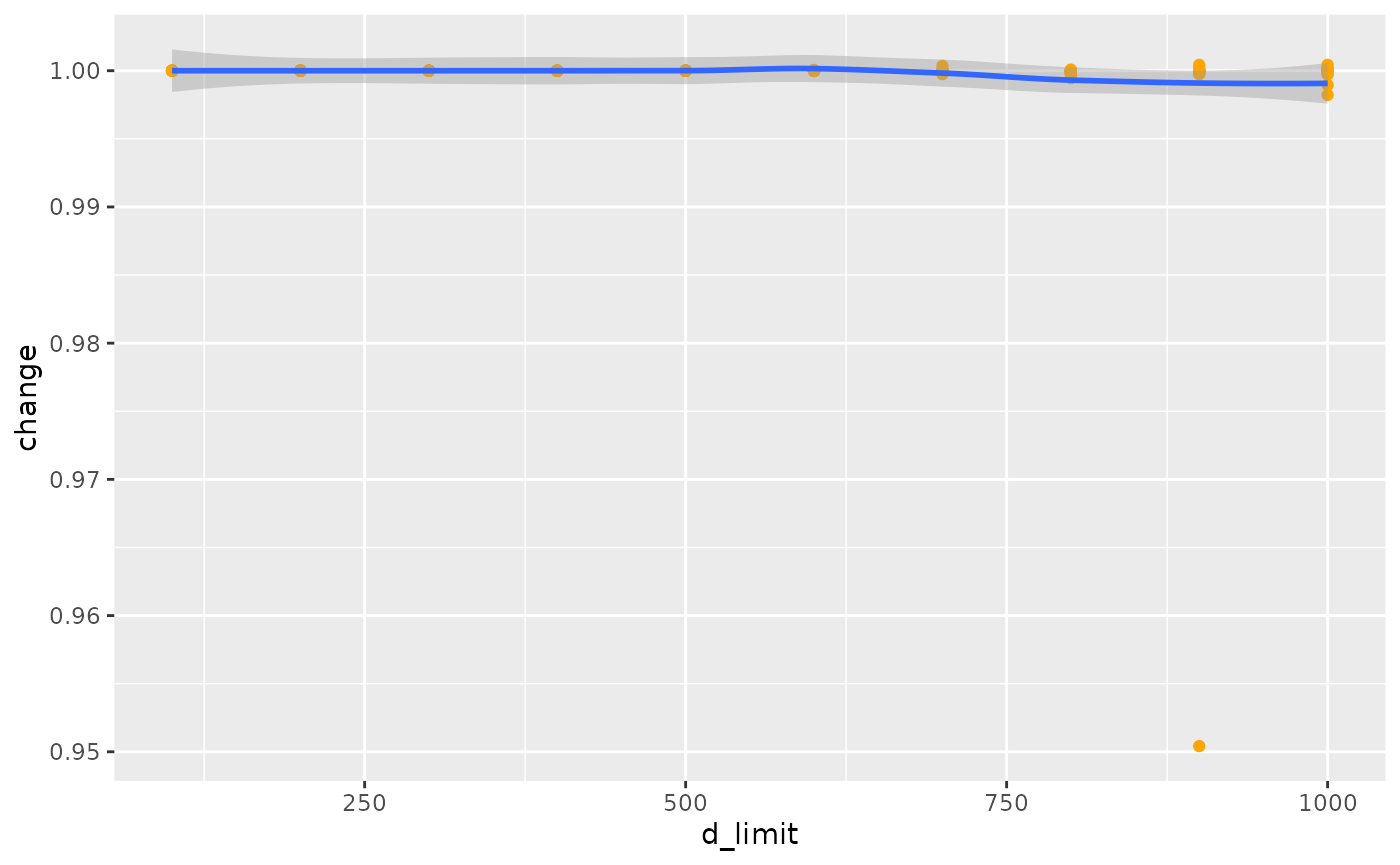
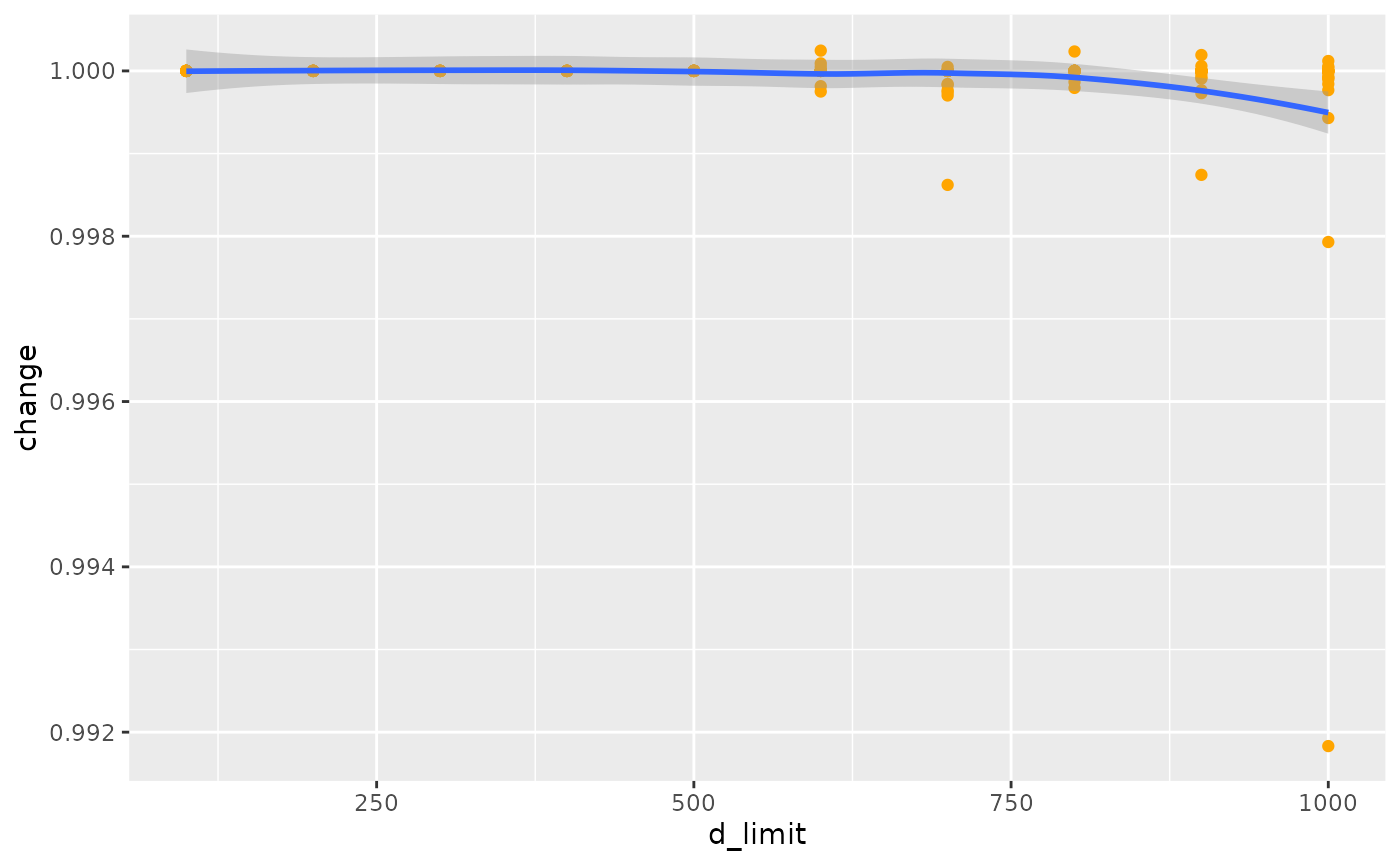
Deploying to gh-pages from @ ATFutures/gtfs-router@f90ab93ab6fbbd9cf7d6a69d2f44bfa3a0624bb7 🚀

diff --git a/docs/articles/gtfsrouter.html b/docs/articles/gtfsrouter.html
@@ -33,7 +33,7 @@
       </button>
       <span class="navbar-brand">
         <a class="navbar-link" href="../index.html">gtfsrouter</a>
-        <span class="version label label-default" data-toggle="tooltip" data-placement="bottom" title="">0.0.5.155</span>
+        <span class="version label label-default" data-toggle="tooltip" data-placement="bottom" title="">0.0.5.156</span>
       </span>
     </div>
 
@@ -126,7 +126,7 @@ to a locally-stored <code>.zip</code> archive in the
 data can be exported and re-imported with:</p>
 <div class="sourceCode" id="cb1"><pre class="downlit sourceCode r">
 <code class="sourceCode R"><span><span class="fu"><a href="../reference/berlin_gtfs_to_zip.html">berlin_gtfs_to_zip</a></span><span class="op">(</span><span class="op">)</span></span></code></pre></div>
-<pre><code><span><span class="co">## [1] "/tmp/RtmphzCcmX/vbb.zip"</span></span></code></pre>
+<pre><code><span><span class="co">## [1] "/tmp/Rtmp9CcPCE/vbb.zip"</span></span></code></pre>
 <div class="sourceCode" id="cb3"><pre class="downlit sourceCode r">
 <code class="sourceCode R"><span><span class="va">f</span> <span class="op">&lt;-</span> <span class="fu"><a href="https://rdrr.io/r/base/file.path.html" class="external-link">file.path</a></span> <span class="op">(</span><span class="fu"><a href="https://rdrr.io/r/base/tempfile.html" class="external-link">tempdir</a></span> <span class="op">(</span><span class="op">)</span>, <span class="st">"vbb.zip"</span><span class="op">)</span></span>
 <span><span class="fu"><a href="https://rdrr.io/r/base/files.html" class="external-link">file.exists</a></span> <span class="op">(</span><span class="va">f</span><span class="op">)</span></span></code></pre></div>
@@ -347,7 +347,7 @@ data:</p>
 <span>                day <span class="op">=</span> <span class="st">"Sunday"</span><span class="op">)</span></span>
 <span>    <span class="op">)</span></span></code></pre></div>
 <pre><code><span><span class="co">##    user  system elapsed </span></span>
-<span><span class="co">##   0.052   0.000   0.053</span></span></code></pre>
+<span><span class="co">##   0.052   0.000   0.052</span></span></code></pre>
 <div class="sourceCode" id="cb14"><pre class="downlit sourceCode r">
 <code class="sourceCode R"><span><span class="fu"><a href="https://rdrr.io/r/base/names.html" class="external-link">names</a></span> <span class="op">(</span><span class="va">gtfs</span><span class="op">)</span></span></code></pre></div>
 <pre><code><span><span class="co">## [1] "calendar"   "routes"     "trips"      "stop_times" "stops"     </span></span>
@@ -365,7 +365,7 @@ data:</p>
 <span>                         to <span class="op">=</span> <span class="va">to</span>,</span>
 <span>                         start_time <span class="op">=</span> <span class="st">"12:00:00"</span><span class="op">)</span><span class="op">)</span></span></code></pre></div>
 <pre><code><span><span class="co">##    user  system elapsed </span></span>
-<span><span class="co">##   0.042   0.000   0.042</span></span></code></pre>
+<span><span class="co">##    0.04    0.00    0.04</span></span></code></pre>
 <p>Note that the <code>day</code> parameter is used to extract the
 timetable, after which it is no longer required in the actual call to
 <code><a href="../reference/gtfs_route.html">gtfs_route()</a></code>.</p>

diff --git a/docs/articles/traveltimes.html b/docs/articles/traveltimes.html
@@ -33,7 +33,7 @@
       </button>
       <span class="navbar-brand">
         <a class="navbar-link" href="../index.html">gtfsrouter</a>
-        <span class="version label label-default" data-toggle="tooltip" data-placement="bottom" title="">0.0.5.155</span>
+        <span class="version label label-default" data-toggle="tooltip" data-placement="bottom" title="">0.0.5.156</span>
       </span>
     </div>
 
@@ -101,7 +101,7 @@ function</a>, is necessary prior to calculating travel times.</p>
 <div class="sourceCode" id="cb1"><pre class="downlit sourceCode r">
 <code class="sourceCode R"><span><span class="kw"><a href="https://rdrr.io/r/base/library.html" class="external-link">library</a></span> <span class="op">(</span><span class="va"><a href="https://github.com/ATFutures/gtfs-router" class="external-link">gtfsrouter</a></span><span class="op">)</span></span>
 <span><span class="fu"><a href="../reference/berlin_gtfs_to_zip.html">berlin_gtfs_to_zip</a></span> <span class="op">(</span><span class="op">)</span></span></code></pre></div>
-<pre><code><span><span class="co">## [1] "/tmp/RtmpeUBqgY/vbb.zip"</span></span></code></pre>
+<pre><code><span><span class="co">## [1] "/tmp/RtmpzJwvJ1/vbb.zip"</span></span></code></pre>
 <div class="sourceCode" id="cb3"><pre class="downlit sourceCode r">
 <code class="sourceCode R"><span><span class="va">f</span> <span class="op">&lt;-</span> <span class="fu"><a href="https://rdrr.io/r/base/file.path.html" class="external-link">file.path</a></span> <span class="op">(</span><span class="fu"><a href="https://rdrr.io/r/base/tempfile.html" class="external-link">tempdir</a></span> <span class="op">(</span><span class="op">)</span>, <span class="st">"vbb.zip"</span><span class="op">)</span></span>
 <span><span class="va">gtfs</span> <span class="op">&lt;-</span> <span class="fu"><a href="../reference/extract_gtfs.html">extract_gtfs</a></span> <span class="op">(</span><span class="va">f</span>, quiet <span class="op">=</span> <span class="cn">TRUE</span><span class="op">)</span></span>

diff --git a/docs/reference/gtfs_transfer_table.html b/docs/reference/gtfs_transfer_table.html
@@ -17,7 +17,7 @@
       </button>
       <span class="navbar-brand">
         <a class="navbar-link" href="../index.html">gtfsrouter</a>
-        <span class="version label label-default" data-toggle="tooltip" data-placement="bottom" title="">0.0.5.155</span>
+        <span class="version label label-default" data-toggle="tooltip" data-placement="bottom" title="">0.0.5.156</span>
       </span>
     </div>
 
@@ -113,7 +113,7 @@ provided, this parameter is automatically set to <code>TRUE</code>.</p></dd>
     <div id="ref-examples">
     <h2>Examples</h2>
     <div class="sourceCode"><pre class="sourceCode r"><code><span class="r-in"><span><span class="fu"><a href="berlin_gtfs_to_zip.html">berlin_gtfs_to_zip</a></span> <span class="op">(</span><span class="op">)</span></span></span>
-<span class="r-out co"><span class="r-pr">#&gt;</span> [1] "/tmp/RtmpOVtKge/vbb.zip"</span>
+<span class="r-out co"><span class="r-pr">#&gt;</span> [1] "/tmp/RtmpYkBGrE/vbb.zip"</span>
 <span class="r-in"><span><span class="va">f</span> <span class="op">&lt;-</span> <span class="fu"><a href="https://rdrr.io/r/base/file.path.html" class="external-link">file.path</a></span> <span class="op">(</span><span class="fu"><a href="https://rdrr.io/r/base/tempfile.html" class="external-link">tempdir</a></span> <span class="op">(</span><span class="op">)</span>, <span class="st">"vbb.zip"</span><span class="op">)</span></span></span>
 <span class="r-in"><span><span class="va">g</span> <span class="op">&lt;-</span> <span class="fu"><a href="extract_gtfs.html">extract_gtfs</a></span> <span class="op">(</span><span class="va">f</span>, quiet <span class="op">=</span> <span class="cn">TRUE</span><span class="op">)</span></span></span>
 <span class="r-in"><span><span class="va">g</span> <span class="op">&lt;-</span> <span class="fu">gtfs_transfer_table</span> <span class="op">(</span><span class="va">g</span>, d_limit <span class="op">=</span> <span class="fl">200</span><span class="op">)</span></span></span>

diff --git a/docs/reference/gtfs_route.html b/docs/reference/gtfs_route.html
@@ -18,7 +18,7 @@ a specified time."><!-- mathjax --><script src="https://cdnjs.cloudflare.com/aja
       </button>
       <span class="navbar-brand">
         <a class="navbar-link" href="../index.html">gtfsrouter</a>
-        <span class="version label label-default" data-toggle="tooltip" data-placement="bottom" title="">0.0.5.155</span>
+        <span class="version label label-default" data-toggle="tooltip" data-placement="bottom" title="">0.0.5.156</span>
       </span>
     </div>
 
@@ -182,7 +182,7 @@ can be calculated by setting <code>earliest_arrival = FALSE</code>.</p>
     <div id="ref-examples">
     <h2>Examples</h2>
     <div class="sourceCode"><pre class="sourceCode r"><code><span class="r-in"><span><span class="fu"><a href="berlin_gtfs_to_zip.html">berlin_gtfs_to_zip</a></span> <span class="op">(</span><span class="op">)</span> <span class="co"># Write sample feed from Berlin, Germany to tempdir</span></span></span>
-<span class="r-out co"><span class="r-pr">#&gt;</span> [1] "/tmp/RtmpOVtKge/vbb.zip"</span>
+<span class="r-out co"><span class="r-pr">#&gt;</span> [1] "/tmp/RtmpYkBGrE/vbb.zip"</span>
 <span class="r-in"><span><span class="va">f</span> <span class="op">&lt;-</span> <span class="fu"><a href="https://rdrr.io/r/base/file.path.html" class="external-link">file.path</a></span> <span class="op">(</span><span class="fu"><a href="https://rdrr.io/r/base/tempfile.html" class="external-link">tempdir</a></span> <span class="op">(</span><span class="op">)</span>, <span class="st">"vbb.zip"</span><span class="op">)</span> <span class="co"># name of feed</span></span></span>
 <span class="r-in"><span><span class="va">gtfs</span> <span class="op">&lt;-</span> <span class="fu"><a href="extract_gtfs.html">extract_gtfs</a></span> <span class="op">(</span><span class="va">f</span><span class="op">)</span></span></span>
 <span class="r-msg co"><span class="r-pr">#&gt;</span> ▶<span style="color: #00BB00;"> Unzipping GTFS archive</span></span>

diff --git a/docs/reference/berlin_gtfs.html b/docs/reference/berlin_gtfs.html
@@ -23,7 +23,7 @@ characters.'><!-- mathjax --><script src="https://cdnjs.cloudflare.com/ajax/libs
       </button>
       <span class="navbar-brand">
         <a class="navbar-link" href="../index.html">gtfsrouter</a>
-        <span class="version label label-default" data-toggle="tooltip" data-placement="bottom" title="">0.0.5.155</span>
+        <span class="version label label-default" data-toggle="tooltip" data-placement="bottom" title="">0.0.5.156</span>
       </span>
     </div>
 
@@ -96,7 +96,7 @@ for which no route is possible return <code>NULL</code>.</p>
     <div id="ref-examples">
     <h2>Examples</h2>
     <div class="sourceCode"><pre class="sourceCode r"><code><span class="r-in"><span><span class="fu"><a href="berlin_gtfs_to_zip.html">berlin_gtfs_to_zip</a></span> <span class="op">(</span><span class="op">)</span> <span class="co"># Write sample feed from Berlin, Germany to tempdir</span></span></span>
-<span class="r-out co"><span class="r-pr">#&gt;</span> [1] "/tmp/RtmpOVtKge/vbb.zip"</span>
+<span class="r-out co"><span class="r-pr">#&gt;</span> [1] "/tmp/RtmpYkBGrE/vbb.zip"</span>
 <span class="r-in"><span><span class="va">f</span> <span class="op">&lt;-</span> <span class="fu"><a href="https://rdrr.io/r/base/file.path.html" class="external-link">file.path</a></span> <span class="op">(</span><span class="fu"><a href="https://rdrr.io/r/base/tempfile.html" class="external-link">tempdir</a></span> <span class="op">(</span><span class="op">)</span>, <span class="st">"vbb.zip"</span><span class="op">)</span> <span class="co"># name of feed</span></span></span>
 <span class="r-in"><span><span class="va">gtfs</span> <span class="op">&lt;-</span> <span class="fu"><a href="extract_gtfs.html">extract_gtfs</a></span> <span class="op">(</span><span class="va">f</span><span class="op">)</span></span></span>
 <span class="r-msg co"><span class="r-pr">#&gt;</span> ▶<span style="color: #00BB00;"> Unzipping GTFS archive</span></span>

diff --git a/docs/reference/gtfs_timetable.html b/docs/reference/gtfs_timetable.html
@@ -17,7 +17,7 @@
       </button>
       <span class="navbar-brand">
         <a class="navbar-link" href="../index.html">gtfsrouter</a>
-        <span class="version label label-default" data-toggle="tooltip" data-placement="bottom" title="">0.0.5.155</span>
+        <span class="version label label-default" data-toggle="tooltip" data-placement="bottom" title="">0.0.5.156</span>
       </span>
     </div>
 
@@ -126,7 +126,7 @@ that case will generally take longer.</p>
     <div id="ref-examples">
     <h2>Examples</h2>
     <div class="sourceCode"><pre class="sourceCode r"><code><span class="r-in"><span><span class="fu"><a href="berlin_gtfs_to_zip.html">berlin_gtfs_to_zip</a></span> <span class="op">(</span><span class="op">)</span> <span class="co"># Write sample feed from Berlin, Germany to tempdir</span></span></span>
-<span class="r-out co"><span class="r-pr">#&gt;</span> [1] "/tmp/RtmpOVtKge/vbb.zip"</span>
+<span class="r-out co"><span class="r-pr">#&gt;</span> [1] "/tmp/RtmpYkBGrE/vbb.zip"</span>
 <span class="r-in"><span><span class="va">f</span> <span class="op">&lt;-</span> <span class="fu"><a href="https://rdrr.io/r/base/file.path.html" class="external-link">file.path</a></span> <span class="op">(</span><span class="fu"><a href="https://rdrr.io/r/base/tempfile.html" class="external-link">tempdir</a></span> <span class="op">(</span><span class="op">)</span>, <span class="st">"vbb.zip"</span><span class="op">)</span> <span class="co"># name of feed</span></span></span>
 <span class="r-in"><span><span class="va">gtfs</span> <span class="op">&lt;-</span> <span class="fu"><a href="extract_gtfs.html">extract_gtfs</a></span> <span class="op">(</span><span class="va">f</span><span class="op">)</span></span></span>
 <span class="r-msg co"><span class="r-pr">#&gt;</span> ▶<span style="color: #00BB00;"> Unzipping GTFS archive</span></span>

diff --git a/docs/reference/gtfs_traveltimes.html b/docs/reference/gtfs_traveltimes.html
@@ -18,7 +18,7 @@ other reachable station in a system."><!-- mathjax --><script src="https://cdnjs
       </button>
       <span class="navbar-brand">
         <a class="navbar-link" href="../index.html">gtfsrouter</a>
-        <span class="version label label-default" data-toggle="tooltip" data-placement="bottom" title="">0.0.5.155</span>
+        <span class="version label label-default" data-toggle="tooltip" data-placement="bottom" title="">0.0.5.156</span>
       </span>
     </div>
 
@@ -155,7 +155,7 @@ to reach all or most stations desired for a particular query, rather than set
     <div id="ref-examples">
     <h2>Examples</h2>
     <div class="sourceCode"><pre class="sourceCode r"><code><span class="r-in"><span><span class="fu"><a href="berlin_gtfs_to_zip.html">berlin_gtfs_to_zip</a></span> <span class="op">(</span><span class="op">)</span></span></span>
-<span class="r-out co"><span class="r-pr">#&gt;</span> [1] "/tmp/RtmpOVtKge/vbb.zip"</span>
+<span class="r-out co"><span class="r-pr">#&gt;</span> [1] "/tmp/RtmpYkBGrE/vbb.zip"</span>
 <span class="r-in"><span><span class="va">f</span> <span class="op">&lt;-</span> <span class="fu"><a href="https://rdrr.io/r/base/file.path.html" class="external-link">file.path</a></span> <span class="op">(</span><span class="fu"><a href="https://rdrr.io/r/base/tempfile.html" class="external-link">tempdir</a></span> <span class="op">(</span><span class="op">)</span>, <span class="st">"vbb.zip"</span><span class="op">)</span></span></span>
 <span class="r-in"><span><span class="va">g</span> <span class="op">&lt;-</span> <span class="fu"><a href="extract_gtfs.html">extract_gtfs</a></span> <span class="op">(</span><span class="va">f</span><span class="op">)</span></span></span>
 <span class="r-msg co"><span class="r-pr">#&gt;</span> ▶<span style="color: #00BB00;"> Unzipping GTFS archive</span></span>

diff --git a/docs/reference/extract_gtfs.html b/docs/reference/extract_gtfs.html
@@ -17,7 +17,7 @@
       </button>
       <span class="navbar-brand">
         <a class="navbar-link" href="../index.html">gtfsrouter</a>
-        <span class="version label label-default" data-toggle="tooltip" data-placement="bottom" title="">0.0.5.155</span>
+        <span class="version label label-default" data-toggle="tooltip" data-placement="bottom" title="">0.0.5.156</span>
       </span>
     </div>
 
@@ -102,7 +102,7 @@ function to the two time columns of the "stop_times" table.</p>
     <div id="ref-examples">
     <h2>Examples</h2>
     <div class="sourceCode"><pre class="sourceCode r"><code><span class="r-in"><span><span class="fu"><a href="berlin_gtfs_to_zip.html">berlin_gtfs_to_zip</a></span> <span class="op">(</span><span class="op">)</span> <span class="co"># Write sample feed from Berlin, Germany to tempdir</span></span></span>
-<span class="r-out co"><span class="r-pr">#&gt;</span> [1] "/tmp/RtmpOVtKge/vbb.zip"</span>
+<span class="r-out co"><span class="r-pr">#&gt;</span> [1] "/tmp/RtmpYkBGrE/vbb.zip"</span>
 <span class="r-in"><span><span class="va">f</span> <span class="op">&lt;-</span> <span class="fu"><a href="https://rdrr.io/r/base/file.path.html" class="external-link">file.path</a></span> <span class="op">(</span><span class="fu"><a href="https://rdrr.io/r/base/tempfile.html" class="external-link">tempdir</a></span> <span class="op">(</span><span class="op">)</span>, <span class="st">"vbb.zip"</span><span class="op">)</span> <span class="co"># name of feed</span></span></span>
 <span class="r-in"><span><span class="va">gtfs</span> <span class="op">&lt;-</span> <span class="fu">extract_gtfs</span> <span class="op">(</span><span class="va">f</span><span class="op">)</span></span></span>
 <span class="r-msg co"><span class="r-pr">#&gt;</span> ▶<span style="color: #00BB00;"> Unzipping GTFS archive</span></span>

diff --git a/docs/articles/transfers.html b/docs/articles/transfers.html
@@ -33,7 +33,7 @@
       </button>
       <span class="navbar-brand">
         <a class="navbar-link" href="../index.html">gtfsrouter</a>
-        <span class="version label label-default" data-toggle="tooltip" data-placement="bottom" title="">0.0.5.155</span>
+        <span class="version label label-default" data-toggle="tooltip" data-placement="bottom" title="">0.0.5.156</span>
       </span>
     </div>
 
@@ -594,9 +594,9 @@ range of distance limits.</p>
 <p><img src="transfers_files/figure-html/plot1-1.png" width="700"></p>
 <p>And these additional transfer possibilities can make a significant
 difference to estimated travel times. Note, however, that the travel
-times only changed for 604 stations, while the value of
+times only changed for 625 stations, while the value of
 <code>nsame</code> value recording numbers of stations for which travel
-times did not change was 4,868. Travel times may also increase as
+times did not change was 3,693. Travel times may also increase as
 additional transfers may be used to reduce numbers of connecting
 services required for a particular trip, and the algorithm generally
 searches for connections with minimal numbers of transfers.</p>
@@ -678,7 +678,7 @@ limits of maximal transfer distance, although the overall effect is very
 minimal. The object <code>d</code> also records the proportion of
 station pairs for which modifications to the transfers table actually
 changed travel times, which in this case amounts to a mean value of
-0.0022, clearly revealing that very few trips actually change.</p>
+0.001, clearly revealing that very few trips actually change.</p>
 <div class="section level3">
 <h3 id="a-more-realistic-example">A more realistic example<a class="anchor" aria-label="anchor" href="#a-more-realistic-example"></a>
 </h3>

diff --git a/docs/reference/summary.gtfs.html b/docs/reference/summary.gtfs.html
@@ -17,7 +17,7 @@
       </button>
       <span class="navbar-brand">
         <a class="navbar-link" href="../index.html">gtfsrouter</a>
-        <span class="version label label-default" data-toggle="tooltip" data-placement="bottom" title="">0.0.5.155</span>
+        <span class="version label label-default" data-toggle="tooltip" data-placement="bottom" title="">0.0.5.156</span>
       </span>
     </div>
 
@@ -81,7 +81,7 @@
     <div id="ref-examples">
     <h2>Examples</h2>
     <div class="sourceCode"><pre class="sourceCode r"><code><span class="r-in"><span><span class="fu"><a href="berlin_gtfs_to_zip.html">berlin_gtfs_to_zip</a></span> <span class="op">(</span><span class="op">)</span></span></span>
-<span class="r-out co"><span class="r-pr">#&gt;</span> [1] "/tmp/RtmpOVtKge/vbb.zip"</span>
+<span class="r-out co"><span class="r-pr">#&gt;</span> [1] "/tmp/RtmpYkBGrE/vbb.zip"</span>
 <span class="r-in"><span><span class="va">f</span> <span class="op">&lt;-</span> <span class="fu"><a href="https://rdrr.io/r/base/file.path.html" class="external-link">file.path</a></span> <span class="op">(</span><span class="fu"><a href="https://rdrr.io/r/base/tempfile.html" class="external-link">tempdir</a></span> <span class="op">(</span><span class="op">)</span>, <span class="st">"vbb.zip"</span><span class="op">)</span></span></span>
 <span class="r-in"><span><span class="va">g</span> <span class="op">&lt;-</span> <span class="fu"><a href="extract_gtfs.html">extract_gtfs</a></span> <span class="op">(</span><span class="va">f</span><span class="op">)</span></span></span>
 <span class="r-msg co"><span class="r-pr">#&gt;</span> ▶<span style="color: #00BB00;"> Unzipping GTFS archive</span></span>

diff --git a/docs/authors.html b/docs/authors.html
@@ -17,7 +17,7 @@
       </button>
       <span class="navbar-brand">
         <a class="navbar-link" href="index.html">gtfsrouter</a>
-        <span class="version label label-default" data-toggle="tooltip" data-placement="bottom" title="">0.0.5.155</span>
+        <span class="version label label-default" data-toggle="tooltip" data-placement="bottom" title="">0.0.5.156</span>
       </span>
     </div>
 
@@ -74,13 +74,13 @@
 
     <p>Padgham M, Stepniak M (2023).
 <em>gtfsrouter: Routing with GTFS (General Transit Feed Specification) Data</em>.
-R package version 0.0.5.155, <a href="https://github.com/ATFutures/gtfs-router" class="external-link">https://github.com/ATFutures/gtfs-router</a>. 
+R package version 0.0.5.156, <a href="https://github.com/ATFutures/gtfs-router" class="external-link">https://github.com/ATFutures/gtfs-router</a>. 
 </p>
     <pre>@Manual{,
   title = {gtfsrouter: Routing with GTFS (General Transit Feed Specification) Data},
   author = {Mark Padgham and Marcin Stepniak},
   year = {2023},
-  note = {R package version 0.0.5.155},
+  note = {R package version 0.0.5.156},
   url = {https://github.com/ATFutures/gtfs-router},
 }</pre>
 

diff --git a/docs/reference/berlin_gtfs_to_zip.html b/docs/reference/berlin_gtfs_to_zip.html
@@ -18,7 +18,7 @@ a file named "vbb.zip" to tempdir().'><!-- mathjax --><script src="https://cdnjs
       </button>
       <span class="navbar-brand">
         <a class="navbar-link" href="../index.html">gtfsrouter</a>
-        <span class="version label label-default" data-toggle="tooltip" data-placement="bottom" title="">0.0.5.155</span>
+        <span class="version label label-default" data-toggle="tooltip" data-placement="bottom" title="">0.0.5.156</span>
       </span>
     </div>
 
